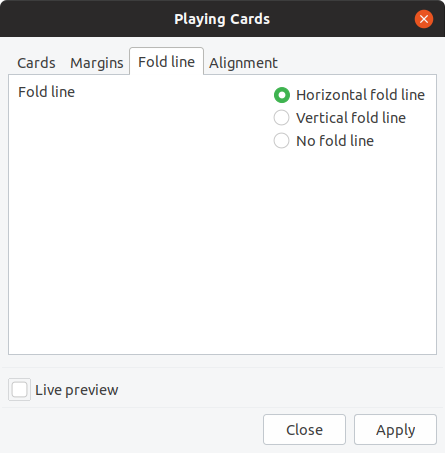
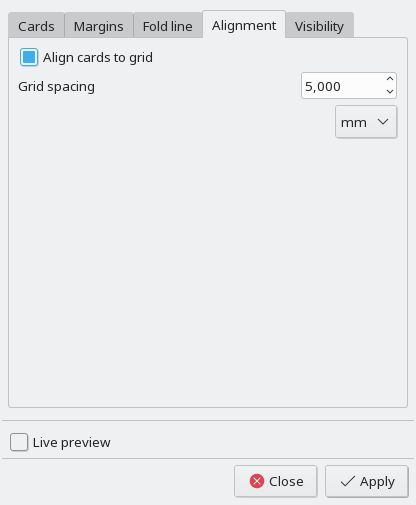
Added a single frame around all cards. This should help to align two pages properly before glueing. Added guides. Added a new page to define what should be drawn and what shouldn't.

diff --git a/PlayingCards.py b/PlayingCards.py
@@ -170,7 +170,7 @@ def calculate_positions_without_fold_line(page_size, margin_size, card_size,
     :param page_size: The width or height of the page.
     :type page_size: float
     :param margin_size: The empty margin of the page. Nothing will be placed in
-    the margin.
+    the margin except for the frame.
     :type margin_size: float
     :param card_size: The width or height of each card.
     :type card_size: float
@@ -335,6 +335,14 @@ class PlayingCardsExtension(inkex.Effect):
     GRID_SIZE = None
     ALIGN_TO_GRID = None
     FOLD_LINE_TYPE = None
+    FRAME_SPACING = None
+    DRAW_GUIDES = None
+    DRAW_CARDS = None
+    DRAW_BLEEDS = None
+    DRAW_CROP_LINES = None
+    DRAW_FOLD_LINE = None
+    DRAW_PAGE_MARGIN = None
+    DRAW_FRAME = None
 
     USER_UNIT = None                 # The unit used in the document
     horizontal_card_positions = None # Calculated horizontal positions
@@ -404,6 +412,14 @@ class PlayingCardsExtension(inkex.Effect):
                                      choices=UNITS.keys(),
                                      action="store")
 
+        self.OptionParser.add_option("--frameSpacing",
+                                     type="float",
+                                     action="store")
+        self.OptionParser.add_option("--frameSpacingUnit",
+                                     type="choice",
+                                     choices=UNITS.keys(),
+                                     action="store")
+
         self.OptionParser.add_option("--gridSize",
                                      type="float",
                                      action="store")
@@ -418,6 +434,27 @@ class PlayingCardsExtension(inkex.Effect):
         self.OptionParser.add_option("--foldLineType",
                                      type="choice",
                                      choices=FOLD_LINE_TYPES,
+                                     action="store")
+        self.OptionParser.add_option("--drawGuides",
+                                     type="inkbool",
+                                     action="store")
+        self.OptionParser.add_option("--drawCards",
+                                     type="inkbool",
+                                     action="store")
+        self.OptionParser.add_option("--drawBleeds",
+                                     type="inkbool",
+                                     action="store")
+        self.OptionParser.add_option("--drawCropLines",
+                                     type="inkbool",
+                                     action="store")
+        self.OptionParser.add_option("--drawFoldLine",
+                                     type="inkbool",
+                                     action="store")
+        self.OptionParser.add_option("--drawPageMargin",
+                                     type="inkbool",
+                                     action="store")
+        self.OptionParser.add_option("--drawFrame",
+                                     type="inkbool",
                                      action="store")
 
     def init_user_unit(self):
@@ -488,8 +525,18 @@ class PlayingCardsExtension(inkex.Effect):
         self.PAGE_MARGIN = self.to_user_unit(
             make_quantity(self.options.pageMargin,
                           self.options.pageMarginUnit))
+        self.FRAME_SPACING = self.to_user_unit(
+            make_quantity(self.options.frameSpacing,
+                          self.options.frameSpacingUnit))
         self.ALIGN_TO_GRID = self.options.gridAligned
         self.FOLD_LINE_TYPE = self.options.foldLineType
+        self.DRAW_GUIDES = self.options.drawGuides
+        self.DRAW_CARDS = self.options.drawCards
+        self.DRAW_BLEEDS = self.options.drawBleeds
+        self.DRAW_CROP_LINES = self.options.drawCropLines
+        self.DRAW_FOLD_LINE = self.options.drawFoldLine
+        self.DRAW_PAGE_MARGIN = self.options.drawPageMargin
+        self.DRAW_FRAME = self.options.drawFrame
 
     def effect(self):
         self.init_user_unit()
@@ -497,22 +544,32 @@ class PlayingCardsExtension(inkex.Effect):
 
         self.calculate_positions()
 
-        non_printing_layer = self.create_layer("(template) cards and bleeds")
-        mask_layer = self.create_layer("(template) mask", is_visible=False)
-        printing_layer = self.create_layer("(template) fold and crop lines")
+        # Create one layer for the things that we want to print and another
+        # layer for things that we don't want to print but are useful while
+        # working on the cards.
+        non_printing_layer = self.create_layer("(template) non printing")
+        printing_layer = self.create_layer("(template) printing")
 
-        self.create_fold_line(printing_layer)
-        self.create_margin(printing_layer)
-        self.create_mask(mask_layer)
+        if self.DRAW_GUIDES:
+            self.create_guides()
 
-        bleeds_group = self.create_group(non_printing_layer, "bleeds")
-        self.create_bleeds(bleeds_group)
+        if self.DRAW_CARDS:
+            self.create_cards(non_printing_layer)
 
-        cards_group = self.create_group(non_printing_layer, "cards")
-        self.create_cards(cards_group)
+        if self.DRAW_BLEEDS:
+            self.create_bleeds(non_printing_layer)
 
-        crop_lines_group = self.create_group(printing_layer, "crop lines")
-        self.create_crop_lines(crop_lines_group)
+        if self.DRAW_CROP_LINES:
+            self.create_crop_lines(printing_layer)
+
+        if self.DRAW_FOLD_LINE:
+            self.create_fold_line(printing_layer)
+
+        if self.DRAW_PAGE_MARGIN:
+            self.create_margin(non_printing_layer)
+
+        if self.DRAW_FRAME:
+            self.create_frame(printing_layer)
 
     def to_user_unit(self, quantity):
         """
@@ -538,6 +595,19 @@ class PlayingCardsExtension(inkex.Effect):
         The height is read from the document. It may or may not contain a unit.
         """
         return self.document.getroot().get("height")
+
+    def y_inkscape_to_svg(self, y):
+        """
+        Transform an inkscape coordinate to and svg coordinate.
+        
+        The origin in inkscape is the bottom left corner of the page. The 
+        origin in svg is the top left cornder of the page. Therefore the
+        y coordinate needs to be transformed.
+
+        :param y: the y coordinate in user units
+        :type y: float
+        """
+        return float(self.to_user_unit(self.document_height())) - y;
 
     def calculate_positions(self):
         """
@@ -632,6 +702,49 @@ class PlayingCardsExtension(inkex.Effect):
     # Functions related to the contents of the document
     # =================================================
 
+    def create_guide(self, x, y, orientation):
+        """
+        Create an arbitrary guide.
+
+        :type x: float
+        :type y: float
+        :type orientation: str
+        """
+        view = self.document.getroot().find(inkex.addNS("namedview", "sodipodi"))
+        guide = inkex.etree.SubElement(view, inkex.addNS("guide", "sodipodi"))
+        guide.set("orientation", orientation)
+        guide.set("position", "{0},{1}".format(x, self.y_inkscape_to_svg(y)))
+    
+    def create_horizontal_guide(self, y):
+        """
+        Create a horizontal guide.
+        """
+        self.create_guide(0, y, "0,1")
+
+    def create_vertical_guide(self, x):
+        """
+        Create a vertical guide.
+        """
+        self.create_guide(x, 0, "1,0")
+
+    def create_guides(self):
+        """
+        Create guides at all sides of all cards and bleeds.
+        """
+        for x in self.horizontal_card_positions:
+            self.create_vertical_guide(x)
+            self.create_vertical_guide(x + self.CARD_WIDTH)
+            if self.BLEED_SIZE > 0:
+                self.create_vertical_guide(x - self.BLEED_SIZE)
+                self.create_vertical_guide(x + self.CARD_WIDTH + self.BLEED_SIZE)
+
+        for y in self.vertical_card_positions:
+            self.create_horizontal_guide(y)
+            self.create_horizontal_guide(y + self.CARD_HEIGHT)
+            if self.BLEED_SIZE > 0:
+                self.create_horizontal_guide(y - self.BLEED_SIZE)
+                self.create_horizontal_guide(y + self.CARD_HEIGHT + self.BLEED_SIZE)
+
     def create_bleeds(self, parent):
         """
         Creates a rectangle for each bleed.
@@ -645,7 +758,7 @@ class PlayingCardsExtension(inkex.Effect):
                       "y": str(-self.BLEED_SIZE),
                       "width": str(self.CARD_WIDTH + 2.0 * self.BLEED_SIZE),
                       "height": str(self.CARD_HEIGHT + 2.0 * self.BLEED_SIZE),
-                      "stroke": "gray",
+                      "stroke": "black",
                       "stroke-width": str(self.to_user_unit("0.25pt")),
                       "fill": "none"}
 
@@ -664,8 +777,8 @@ class PlayingCardsExtension(inkex.Effect):
                       "y": str(0),
                       "width": str(self.CARD_WIDTH),
                       "height": str(self.CARD_HEIGHT),
-                      "stroke": "gray",
-                      "stroke-width": str(self.to_user_unit("1pt")),
+                      "stroke": "black",
+                      "stroke-width": str(self.to_user_unit("0.25pt")),
                       "fill": "none"}
 
         for y in self.vertical_card_positions:
@@ -681,7 +794,6 @@ class PlayingCardsExtension(inkex.Effect):
         """
         attributes = {"stroke": "black",
                       "stroke-width": str(self.to_user_unit("0.25pt")),
-                      "stroke-dasharray": "2,1",
                       "fill": "none"}
 
         if self.FOLD_LINE_TYPE == HORIZONTAL_FOLD_LINE:
@@ -760,37 +872,37 @@ class PlayingCardsExtension(inkex.Effect):
                       "y": str(self.PAGE_MARGIN),
                       "width": str(self.PAGE_WIDTH - 2.0 * self.PAGE_MARGIN),
                       "height": str(self.PAGE_HEIGHT - 2.0 * self.PAGE_MARGIN),
-                      "stroke": "gray",
+                      "stroke": "black",
                       "stroke-width": str(self.to_user_unit("0.25pt")),
                       "stroke-dasharray": "0.5,0.5",
                       "fill": "none"}
 
         inkex.etree.SubElement(parent, "rect", attributes)
-
-    def create_mask(self, parent):
+    
+    def create_frame(self, parent):
         """
-        Create a shape that masks everything but the cards.
-
-        :type parent: lxml.etree._Element
+        Create a frame around the cards.
         """
-        attributes = {"stroke": "none",
-                      "fill": "white",
-                      "fill-rule": "evenodd"}
 
-        format_string = "M {left},{bottom} {right},{bottom} {right},{top} {left},{top} Z"
+        XMIN = min(self.horizontal_card_positions)
+        XMAX = max(self.horizontal_card_positions)
+        YMIN = min(self.vertical_card_positions)
+        YMAX = max(self.vertical_card_positions)
 
-        path = format_string.format(
-            left=0, right=self.PAGE_WIDTH, bottom=0, top=self.PAGE_HEIGHT)
+        LEFT = XMIN - self.FRAME_SPACING
+        BOTTOM = YMIN - self.FRAME_SPACING
+        WIDTH = XMAX - XMIN + self.CARD_WIDTH + 2 * self.FRAME_SPACING
+        HEIGHT = YMAX - YMIN + self.CARD_HEIGHT + 2 * self.FRAME_SPACING
 
-        for bottom in self.vertical_card_positions:
-            top = bottom + self.CARD_HEIGHT
-            for left in self.horizontal_card_positions:
-                right = left + self.CARD_WIDTH
-                path += format_string.format(
-                    left=left, right=right, bottom=bottom, top=top)
+        attributes = {"x": str(LEFT),
+                      "y": str(BOTTOM),
+                      "width": str(WIDTH),
+                      "height": str(HEIGHT),
+                      "stroke": "black",
+                      "stroke-width": str(self.to_user_unit("0.25pt")),
+                      "fill": "none"}
 
-        attributes["d"] = path
-        inkex.etree.SubElement(parent, "path", attributes)
+        inkex.etree.SubElement(parent, "rect", attributes)
 
 
 def main():

diff --git a/README.md b/README.md
@@ -23,9 +23,15 @@ between bleed areas.
 
 ## Installation
 
-Download the two files *PlayingCards.inx* and *PlayingCards.py*. Copy these files to your Inkscape extension folder. To find the location of that folder open the Inkscape preferences dialog (menu *Edit/Preferences*) and look at *System/System info/User extensions*.
+Download the two files *PlayingCards.inx* and *PlayingCards.py*. Copy these
+files to your Inkscape extension folder. To find the location of that folder
+open the Inkscape preferences dialog (menu *Edit/Preferences*) and look at
+*System/System info/User extensions*.
 
-You must restart Inkscape after copying the files to your Inkscape extension folder. There should now be a menu item called *Extensions/Boardgames/Playing Cards...*. This opens the settings window for the extension.
+You must restart Inkscape after copying the files to your Inkscape extension 
+folder. There should now be a menu item called 
+*Extensions/Boardgames/Playing Cards...*. This opens the settings window for the
+extension.
 
 ## Settings
 
@@ -41,24 +47,33 @@ the bleed area around the cards. Make sure that the right units are selected.
 ![An image of the settings window showing the margins tab](https://github.com/DerElam/inkscape-extension-playing-cards/blob/master/images/settings_margins.png)
 
 Here you can define several different empty areas on your page. You can enter
-the minimal desired values, but the actual values might be larger depending on
-the values for the bleed size and the alignment grid.
+the minimal desired values, but the actual values might be larger depending
+on the values for the bleed size and the alignment grid.
 
 ### Fold line
 
 ![An image of the settings window showing the fold lines tab](https://github.com/DerElam/inkscape-extension-playing-cards/blob/master/images/settings_foldline.png)
 
-Here you can define whether or not you want a horizontal or vertical fold line
-or no fold line at all. A fold line is usefull if you want to have the fronts
-and backs of the cards on one page. This lets you match the fronts and backs
-of the cards perfectly while glueing them together.
+Here you can define whether or not you want a horizontal or vertical fold
+line or no fold line at all. A fold line is usefull if you want to have the
+fronts and backs of the cards on one page. This lets you match the fronts and
+backs of the cards perfectly while glueing them together.
 
 ### Alignment
 
 ![An image of the settings window showing the alignment tab](https://github.com/DerElam/inkscape-extension-playing-cards/blob/master/images/settings_alignment.png)
 
-If *Align cards to grid* is enabled the lower left corner of each card is put on a grid point as defined by *Grid spacing*. This grid might be different from you document grid.
+If *Align cards to grid* is enabled the lower left corner of each card is put on
+a grid point as defined by *Grid spacing*. This grid might be different from 
+you document grid.
 
-The purpose of the grid alignment is that it allows you to easily copy items between cards even if the units of the cards and the document don't match.
+The purpose of the grid alignment is that it allows you to easily copy items
+between cards even if the units of the cards and the document don't match.
 
-For example: You are used to metric units and your document is set up to use millimeters. When you design cards of size 2.5in x 3.5in with a bleed of 2mm and you want to copy items from one card to the card above it you would have to somehow move the item by 92.9mm (88.9mm for the card and 2x2mm for the bleed areas). This is inconvenient. But if you enable the grid alignment with a grid size of say 10mm, then the cards are placed such that you can move your items up by 100mm. This is easily done with the arrow keys.
+For example: You are used to metric units and your document is set up to use
+millimeters. When you design cards of size 2.5in x 3.5in with a bleed of 2mm
+and you want to copy items from one card to the card above it you would have
+to somehow move the item by 92.9mm (88.9mm for the card and 2x2mm for the
+bleed areas). This is inconvenient. But if you enable the grid alignment with
+a grid size of say 10mm, then the cards are placed such that you can move
+your items up by 100mm. This is easily done with the arrow keys.
